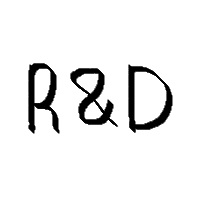
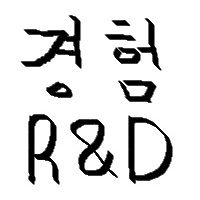
rnd updates

Changed region(s): [[0.09, 0.06, 0.6, 0.93], [0.51, 0.09, 0.87, 0.93], [0.57, 0.87, 0.6, 0.9]]

diff --git a/pages/rnd.html b/pages/rnd.html
@@ -1,0 +1,92 @@
+<!-- html -->
+<title> Sungguk Cha </title>
+<center>
+<h2 id="rnd_h">R&D</h2>
+<div id="rnd_d" style="width:50%; text-align: left;">
+This page introduces my research and development experiences.
+<h3 id="cv">Computer Vision</h3>
+<ul>
+	<li>
+		Classification
+		<ul>
+			<li> 총기/화기분류
+			<li> GNN으로 OCR된 영수증 텍스트 분류하기
+		</ul>
+	</li>
+	<li>
+		Detection
+		<ul>
+			<li> 인공지능컨설팅/에어뉴/이삿짐 object detection
+			<li> 데이터바우처사업/제뉴인카앤파츠/자동차 파손부위 detection
+		</ul>
+	</li>
+	<li>
+		Segmentation
+		<ul>
+			<li> drivable area semantic segmentation on BDD100k dataset
+			<li> real-time semantic segmentation simulation on 10th UNIST anniversary exhibition
+			<li> 데이터바우처사업/스타일봇/fashion item panoptic segmentation
+			<li> Kaggle/iMaterialist (Fashion) 2019 at FGVC6/fashion item panoptic segmentation/(29th/194 (Top 15%))
+		</ul>
+	</li>
+	<li> Image retrieval
+	<li> Video action recognition
+	<li> Visual question answering
+	<li> Human-object interaction
+	<li>
+		Person re-identification
+		<ul>
+			<li> 부천시/스마트시티조성/스마트안전분야/인공지능과 CCTV를 이용한 지능형 역학 시스템 구축 과제
+		</ul>
+	</li>
+	<li> Few-shot learning
+	<li> Zero-shot learning
+	<li> Transformers for vision tasks
+</ul>
+<h3 id="ml">Machine Learning</h3>
+<ul>
+	<li>
+		Recommendation
+		<ul>
+			<li> Click-through rate(CTR) prediction
+			<li> Kaggle/Google Analytics Customer Revenue Prediction/(570th/3611 (Top16%))
+		</ul>
+	</li>
+	<li>
+		StarCraft: Broodwar AI competitions
+		<ul>
+			<li>
+				AAAI Conference on Artificial Intelligence and Interactive Digital Entertainment (AIIDE)
+				<ul>
+					<li> Ranked 11th place, 2016
+					<li> Ranked 28th place, 2017
+				</ul>
+			</li>
+			<li>
+				IEEE Conference on Computational Intelligence and Games (CIG)
+				<ul>
+					<li> Ranked 10th place, 2016
+					<li> Won 3rd place, 2017
+				</ul>
+			</li>
+			<li>
+				Student StarCraft AI Tournament & Ladder (SSCAIT) @ Comenius University in Bratislava & Czech Technical University in Prague
+				<ul>
+					<li> Won 3rd place, 2016/2017
+					<li> Won 4th place, 2017/2018
+				</ul>
+			</li>
+		</ul>
+	</li>
+	<li> Graph neural networks
+</ul>
+<h3 id="ps">Problem Solving</h3>
+<ul>
+	<li> Baekjoon Online Judge, solved 355 problems
+	<li> Dovelet.com, sovled 140 problems
+</ul>
+</div>
+
+<br/>
+© Sungguk Cha | Last update in Oct 6, 2021
+</center>

diff --git a/index.html b/index.html
@@ -8,10 +8,10 @@
 <h1>Sungguk Cha</h1>
 <img onclick='move("pages/home.html")' id="home" src="images/thumbnails/home.jpg" width="75">
 <img onclick='move("pages/cv.html")' id="cv" src="images/thumbnails/cv.jpg" width="75">
+<img onclick='move("pages/rnd.html")' id="cv" src="images/thumbnails/rnd.jpg" width="75">
 <img onclick='move("pages/talks.html")' id="cv" src="images/thumbnails/talknnote.jpg" width="75">
-<img onclick='move("pages/crescendo.html")' id="cv" src="images/thumbnails/crescendo.jpg" width="75">
-<a href="https://www.notion.so/R-D-4d6e641020f34731875fe6f41bf01946" target="_blank"><img src="images/thumbnails/rnd.jpg" width="75"></a>
 <a href="https://www.notion.so/Daily-Log-7d289583d0444dc8b0088d4397dcf26e" target="_blank"><img src="images/thumbnails/diary.jpg" width="75"></a>
+<img onclick='move("pages/crescendo.html")' id="cv" src="images/thumbnails/crescendo.jpg" width="75">
 
 <br/>
 <iframe id="myframe" src="pages/home.html" width=100% frameborder=0 framespacing=0 marginheight=0 marginwidth=0>
